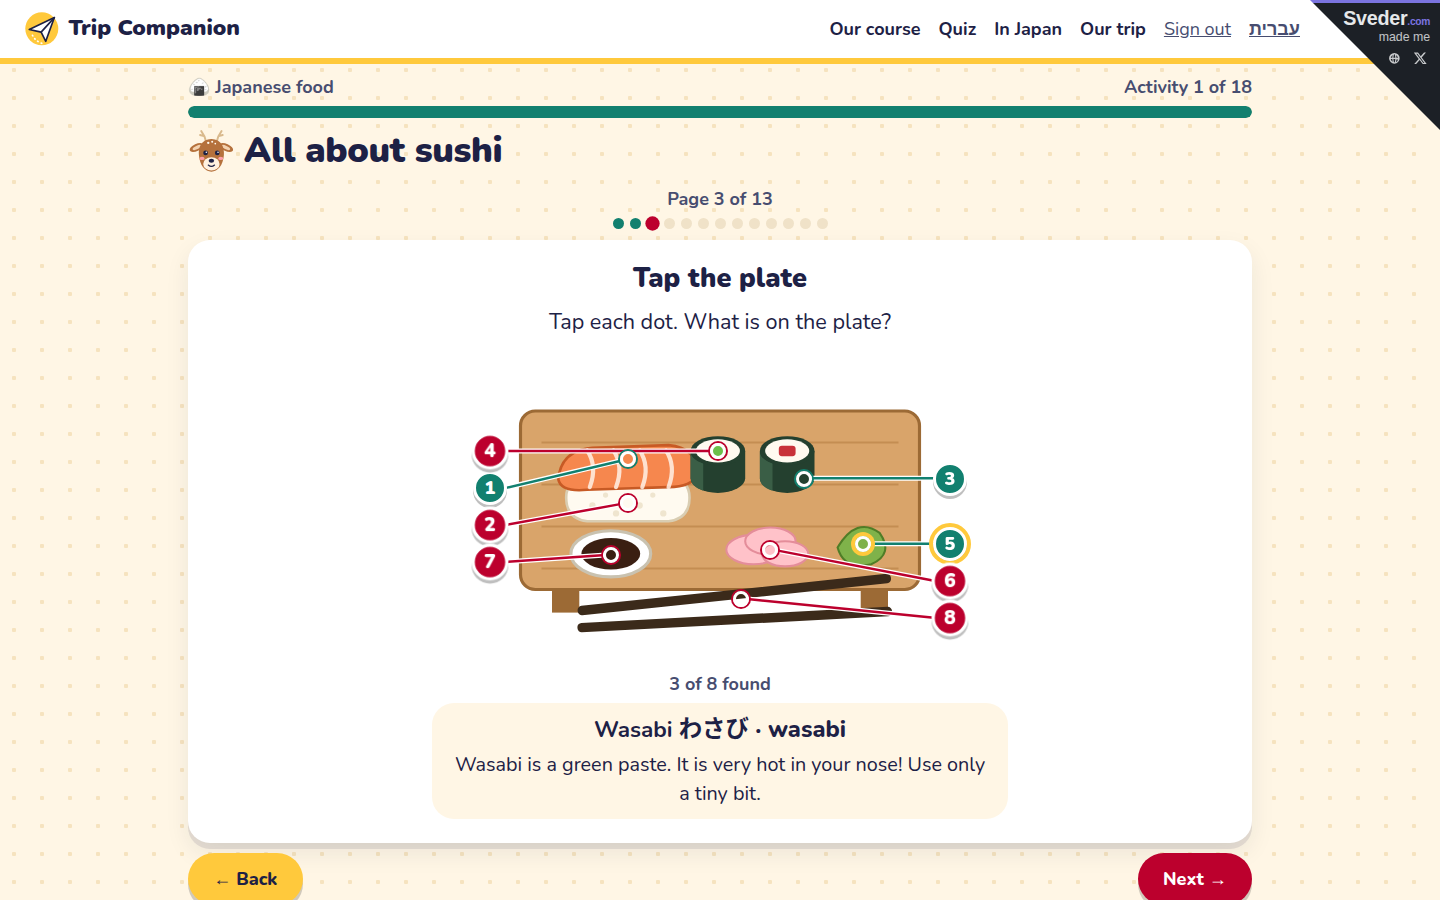
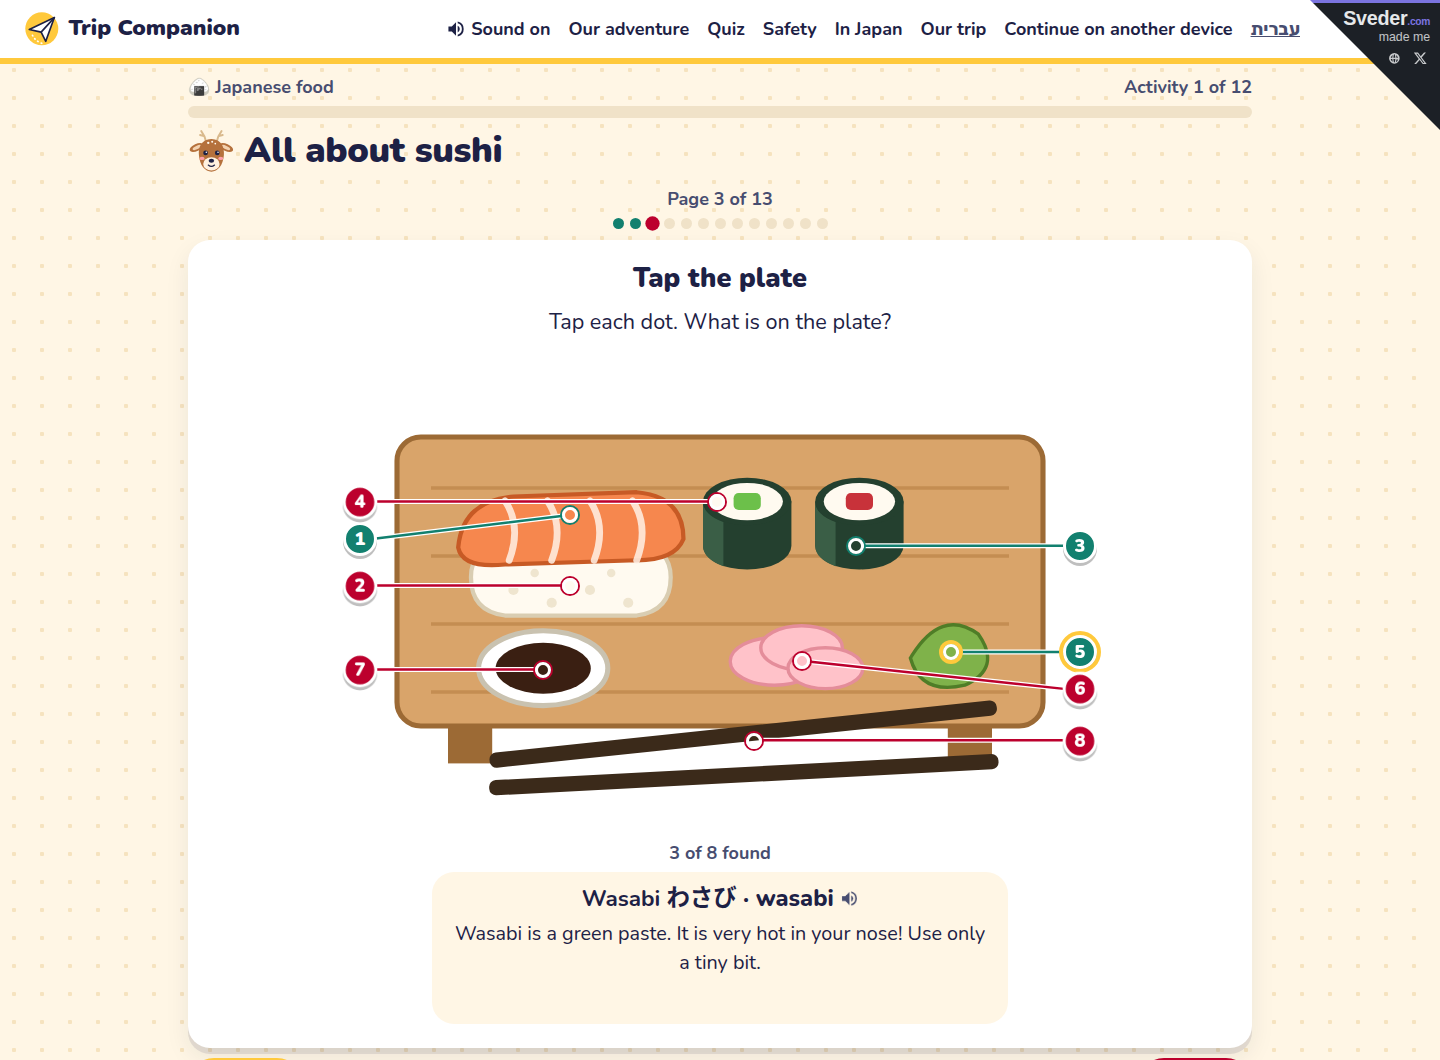
README: judge steps for the guest flow today (no sign-in, steppers, Start our adventure, quiz, safety card, photo hunt), Commons photos, Uzbekistan content, new sushi picture (T298)

Changed region(s): [[0.125, 0.4044, 0.875, 1.0], [0.0, 0.0, 1.0, 0.1867], [0.125, 0.1867, 0.875, 0.3733]]

diff --git a/README.md b/README.md
@@ -1,7 +1,8 @@
 # Trip Companion
 
-A web app that gets a family ready and excited for a trip to Japan: short activities for kids and grown-ups,
-picked for the family, one at a time. Works on a phone, a laptop and a TV browser.
+A web app that gets a family ready and excited for a trip abroad: short activities for kids and grown-ups,
+picked for the family, one at a time. Japan is complete. Uzbekistan is a work in progress. Works on a phone, a laptop
+and a TV browser, in English and in Hebrew.
 
 ![The 'Tap the plate' page of the sushi lesson](docs/readme/sushi-tap-the-plate.png)
 
@@ -9,16 +10,19 @@ Live: https://trip.sveder.com
 
 ## For judges
 
-Try these in about 3 minutes on https://trip.sveder.com:
+Try these in about 5 minutes on https://trip.sveder.com. You do not sign in: a new visitor is a guest family.
 
-1. Sign in with your email. A one-time code arrives by email. There is no password.
-2. Put the family on the plane: drag (or tap) each person into the plane.
-3. Build the course. The app picks the activities for this family.
-4. Open "All about sushi" and swipe through the pages.
-5. On "Tap the plate", tap each dot on the sushi plate.
-6. Open a Street View hunt and find the things on a real Japanese street.
-7. Add `?lang=he` to any page for Hebrew (right to left). The header link switches back.
-8. Add `?tv=1` to any page for the TV mode: big cards for a remote control.
+1. On the home page, tap "Let's go!", then "Let's start".
+2. On "Plan your adventure", keep Japan, set the kids and grown-ups with the + and − buttons, and tap
+   "Start our adventure!". The app picks the activities for this family and opens the first one, "All about sushi".
+3. Swipe (or tap "Next") through the pages. On page 3, "Tap the plate", tap each dot on the sushi plate.
+4. Tap "Our adventure" in the header to see every activity. Open a "Hunt" and find the things on a real Japanese
+   street in Street View.
+5. After you finish one activity, tap "Quiz". The quiz asks about the activities you did.
+6. Tap "Safety" for the emergency numbers (police 110, fire and ambulance 119) and "Print a child safety card".
+7. Tap "In Japan" for the photo hunt that a family does during the trip.
+8. Add `?lang=he` to any page for Hebrew (right to left), or `?tv=1` for the TV mode: big cards for a remote control.
+   The header link switches the language back.
 
 ## How it was built
 
@@ -28,17 +32,20 @@ Try these in about 3 minutes on https://trip.sveder.com:
 - A factory of agent runs built the slices one at a time, from the checklist, and wrote each change to the plan
   under "Revisions".
 - Django on the server. Plain CSS and plain JavaScript in the browser, with no build step.
-- The pictures are SVG files drawn for this app. The content of each module is one YAML file in `content/japan/`.
+- The photos are free-licence photos from Wikimedia Commons; `/credits/` lists each one with its author and licence.
+  Some pictures are SVG files. The content of each module is one YAML file in `content/japan/` or
+  `content/uzbekistan/`.
 
 ## Run it locally
 
     python3 -m venv venv
     venv/bin/pip install -r requirements.txt
     venv/bin/python manage.py migrate
-    venv/bin/python manage.py load_content japan
+    venv/bin/python manage.py load_content japan uzbekistan
     venv/bin/python manage.py runserver
 
-Open http://127.0.0.1:8000/. Sign-in codes print in the terminal (console email backend), so no keys are needed.
+Open http://127.0.0.1:8000/. No keys are needed. Emails (sign-in codes, reminders) print in the terminal (console
+email backend).
 
 ## Tests
 
@@ -46,10 +53,11 @@ Open http://127.0.0.1:8000/. Sign-in codes print in the terminal (console email 
 
 ## Content
 
-Each Japan module is one YAML file in `content/japan/`. `manage.py load_content japan` loads them into the database.
+Each module is one YAML file in `content/<country>/`. `manage.py load_content japan uzbekistan` loads them into the
+database.
 
-A superuser edits the content at `/admin/` (`manage.py make_superuser <email>`; the admin uses the same email-code
-sign-in, no password). A module changed in the admin is marked `edited`, and `load_content` leaves it alone until
+A superuser edits the content at `/admin/` (`manage.py make_superuser <email>`; staff sign in at `/signin/` with a
+one-time email code, no password). A module changed in the admin is marked `edited`, and `load_content` leaves it alone until
 `manage.py export_content japan` writes it back to its YAML file. The export changes only the values that differ and
 keeps the comments in the files.
 
